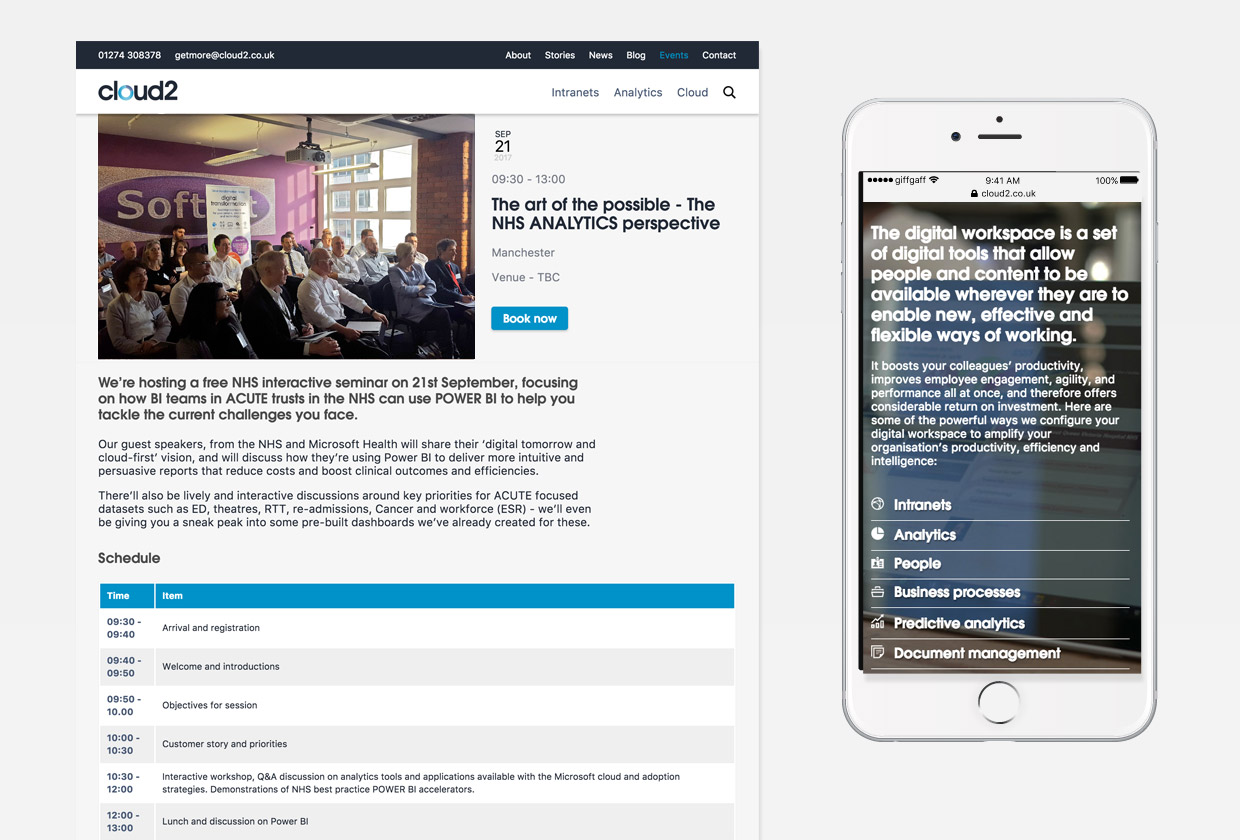
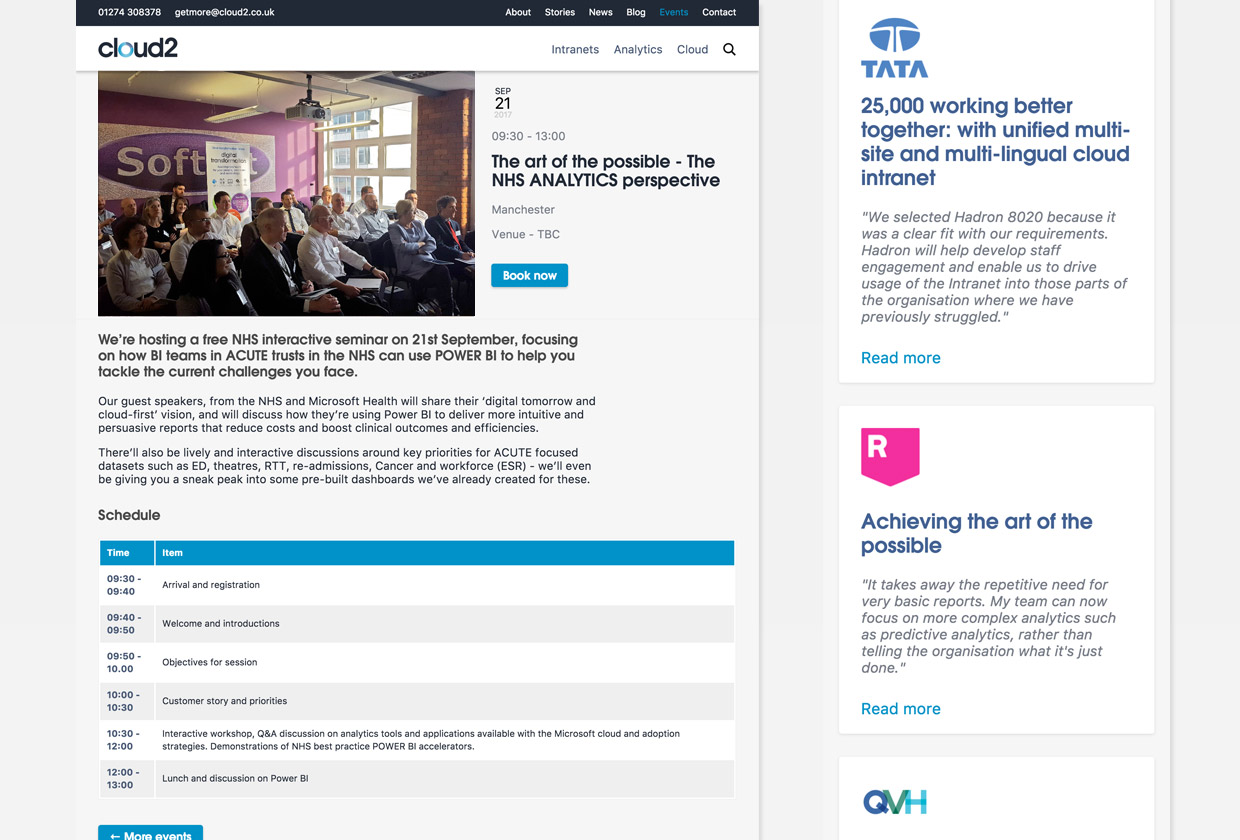
Edited image, removed one

diff --git a/_projects/cloud2-website.md b/_projects/cloud2-website.md
@@ -23,8 +23,6 @@ coverimage:
 projectimages:
 - image-file:   c2web-homepage.jpg
   image-alt:    Cloud2 website homepage
-- image-file:   c2web-devices.jpg
-  image-alt:    Cloud2 website on Apple devices
 - image-file:   c2web-event.jpg
   image-alt:    Events from Cloud2
 - image-file:   c2web-share.jpg
